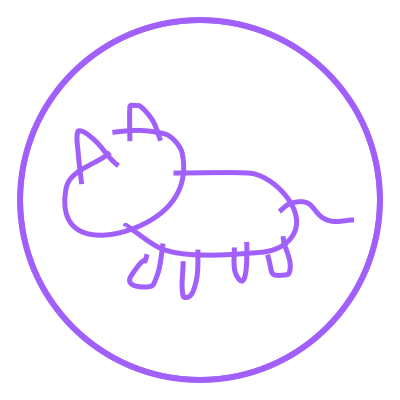
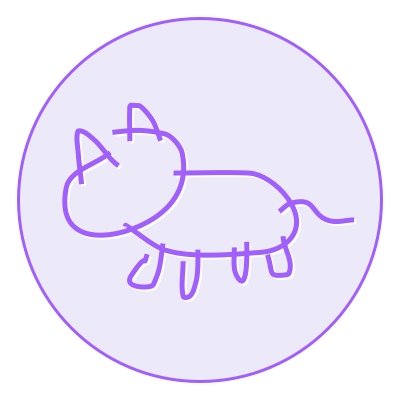
added new badges for ref

diff --git a/docs/reference/api-Sentiment.md b/docs/reference/api-Sentiment.md
@@ -1,7 +1,7 @@
 ---
 templateKey: "model-page"
 id: Sentiment
-exampleimgsrc: ../assets/ref-sentiment.png
+exampleimgsrc: ../assets/ref-sentiment-round.png
 title: Sentiment()
 description: >-
   Sentiment is a model trained to predict the sentiment of any given text. The default model, currently 'moviereviews', is trained using IMDB reviews that have been truncated to a maximum of 200 words, only the 20000 most used words in the reviews are used.

diff --git a/docs/reference/api-Word2vec.md b/docs/reference/api-Word2vec.md
@@ -1,7 +1,7 @@
 ---
 templateKey: "model-page"
 id: Word2vec
-exampleimgsrc: ../assets/ref-word2vec.png
+exampleimgsrc: ../assets/ref-word2vec-round.png
 title: word2vec()
 description: >-
   Word2vec is a group of related models that are used to produce word embeddings. This method allows you to perform vector operations on a given set of input vectors.

diff --git a/docs/reference/api-PitchDetection.md b/docs/reference/api-PitchDetection.md
@@ -1,7 +1,7 @@
 ---
 templateKey: "model-page"
 id: PitchDetection
-exampleimgsrc: ../assets/ref-pitchDetection.png
+exampleimgsrc: ../assets/ref-pitchDetection-round.png
 title: pitchDetection()
 description: >-
   A pitch detection algorithm is a way of estimating the pitch or fundamental frequency of an audio signal.

diff --git a/docs/reference/api-soundClassifier.md b/docs/reference/api-soundClassifier.md
@@ -1,7 +1,7 @@
 ---
 templateKey: "model-page"
 id: SoundClassifier
-exampleimgsrc: ../assets/ref-soundClassifier.png
+exampleimgsrc: ../assets/ref-soundClassifier-round.png
 title: soundClassifier()
 description: >- 
   ml5.soundClassifier() enables you to detect pre-trained voice and speech commands 

diff --git a/docs/reference/api-KNNClassifier.md b/docs/reference/api-KNNClassifier.md
@@ -1,7 +1,7 @@
 ---
 templateKey: "model-page"
 id: KNNClassifier
-exampleimgsrc: ../assets/ref-knnclassifier.png
+exampleimgsrc: ../assets/ref-knnClassifier-round.png
 title: KNNClassifier()
 description: >-
   This class allows you to create a classifier using the K-Nearest Neighbors.

diff --git a/docs/reference/api-FeatureExtractor.md b/docs/reference/api-FeatureExtractor.md
@@ -1,7 +1,7 @@
 ---
 templateKey: "model-page"
 title: featureExtractor()
-exampleimgsrc: ../assets/ref-featureextractor.png
+exampleimgsrc: ../assets/ref-featureExtractor-round.png
 tags:
   - helpers
 

diff --git a/docs/reference/api-charRNN.md b/docs/reference/api-charRNN.md
@@ -1,7 +1,7 @@
 ---
 templateKey: "model-page"
 title: CharRNN()
-exampleimgsrc: ../assets/ref-charRnn.png
+exampleimgsrc: ../assets/ref-charRnn-round.png
 tags:
   - text
 
